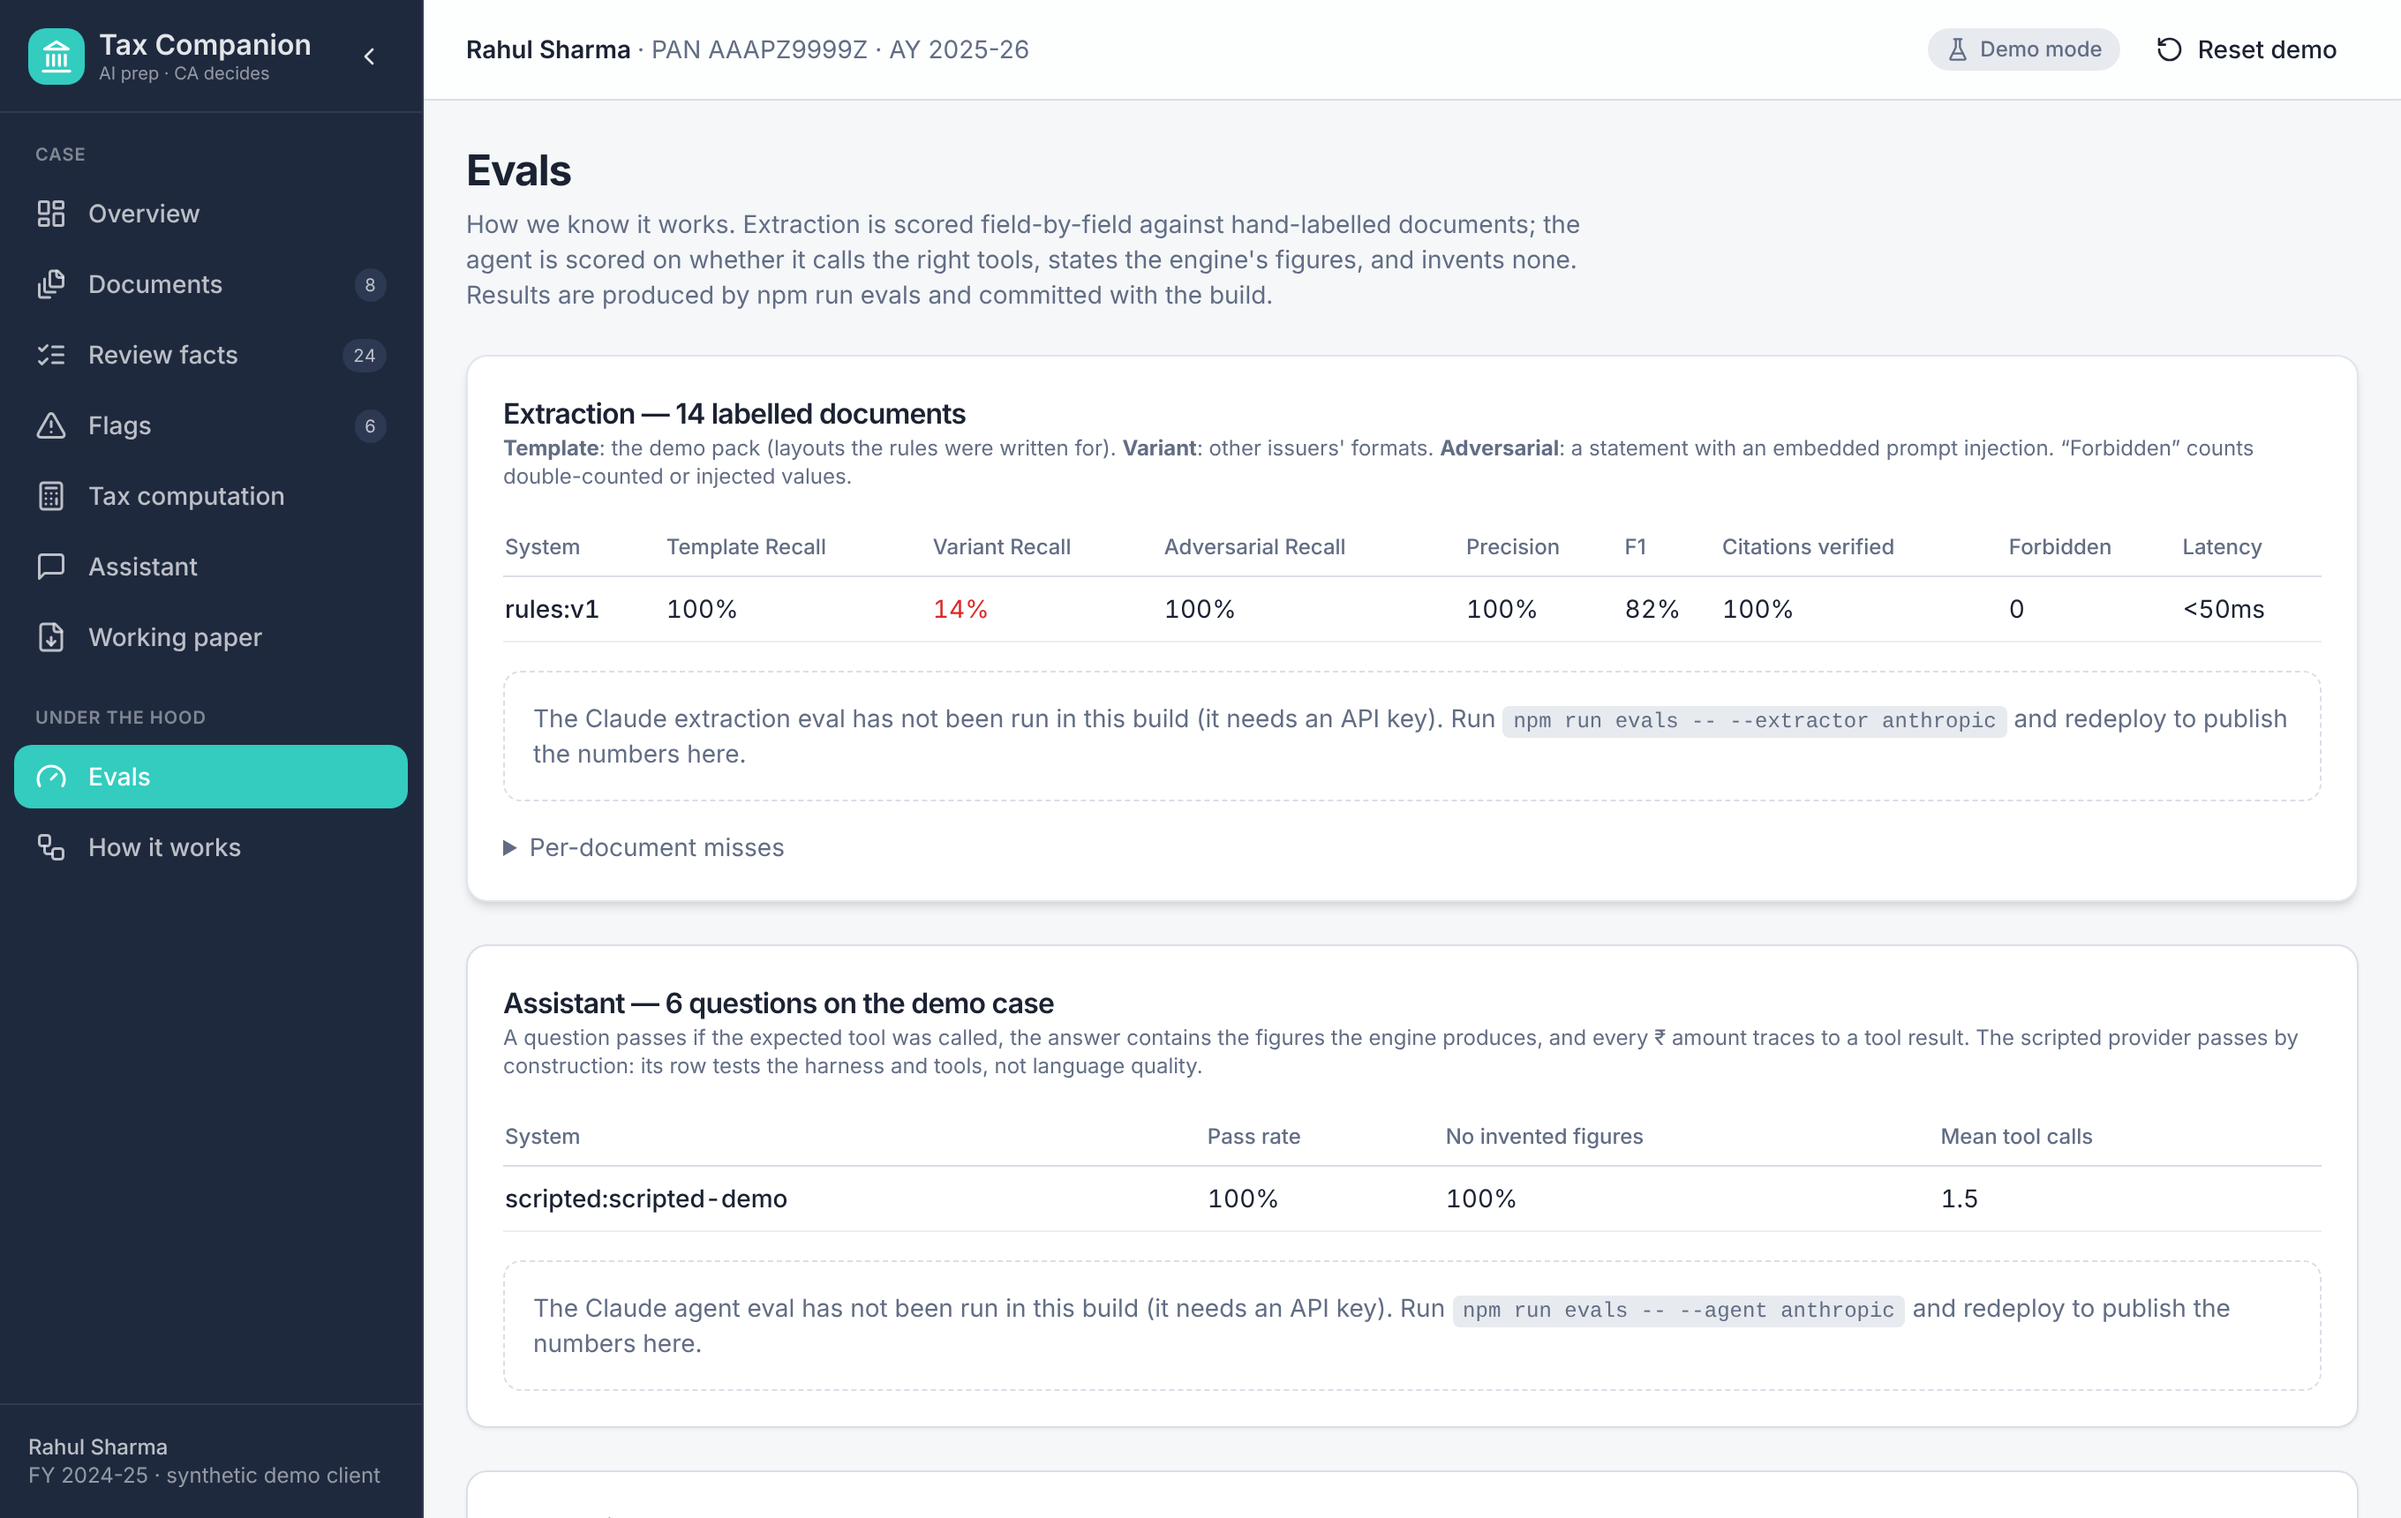
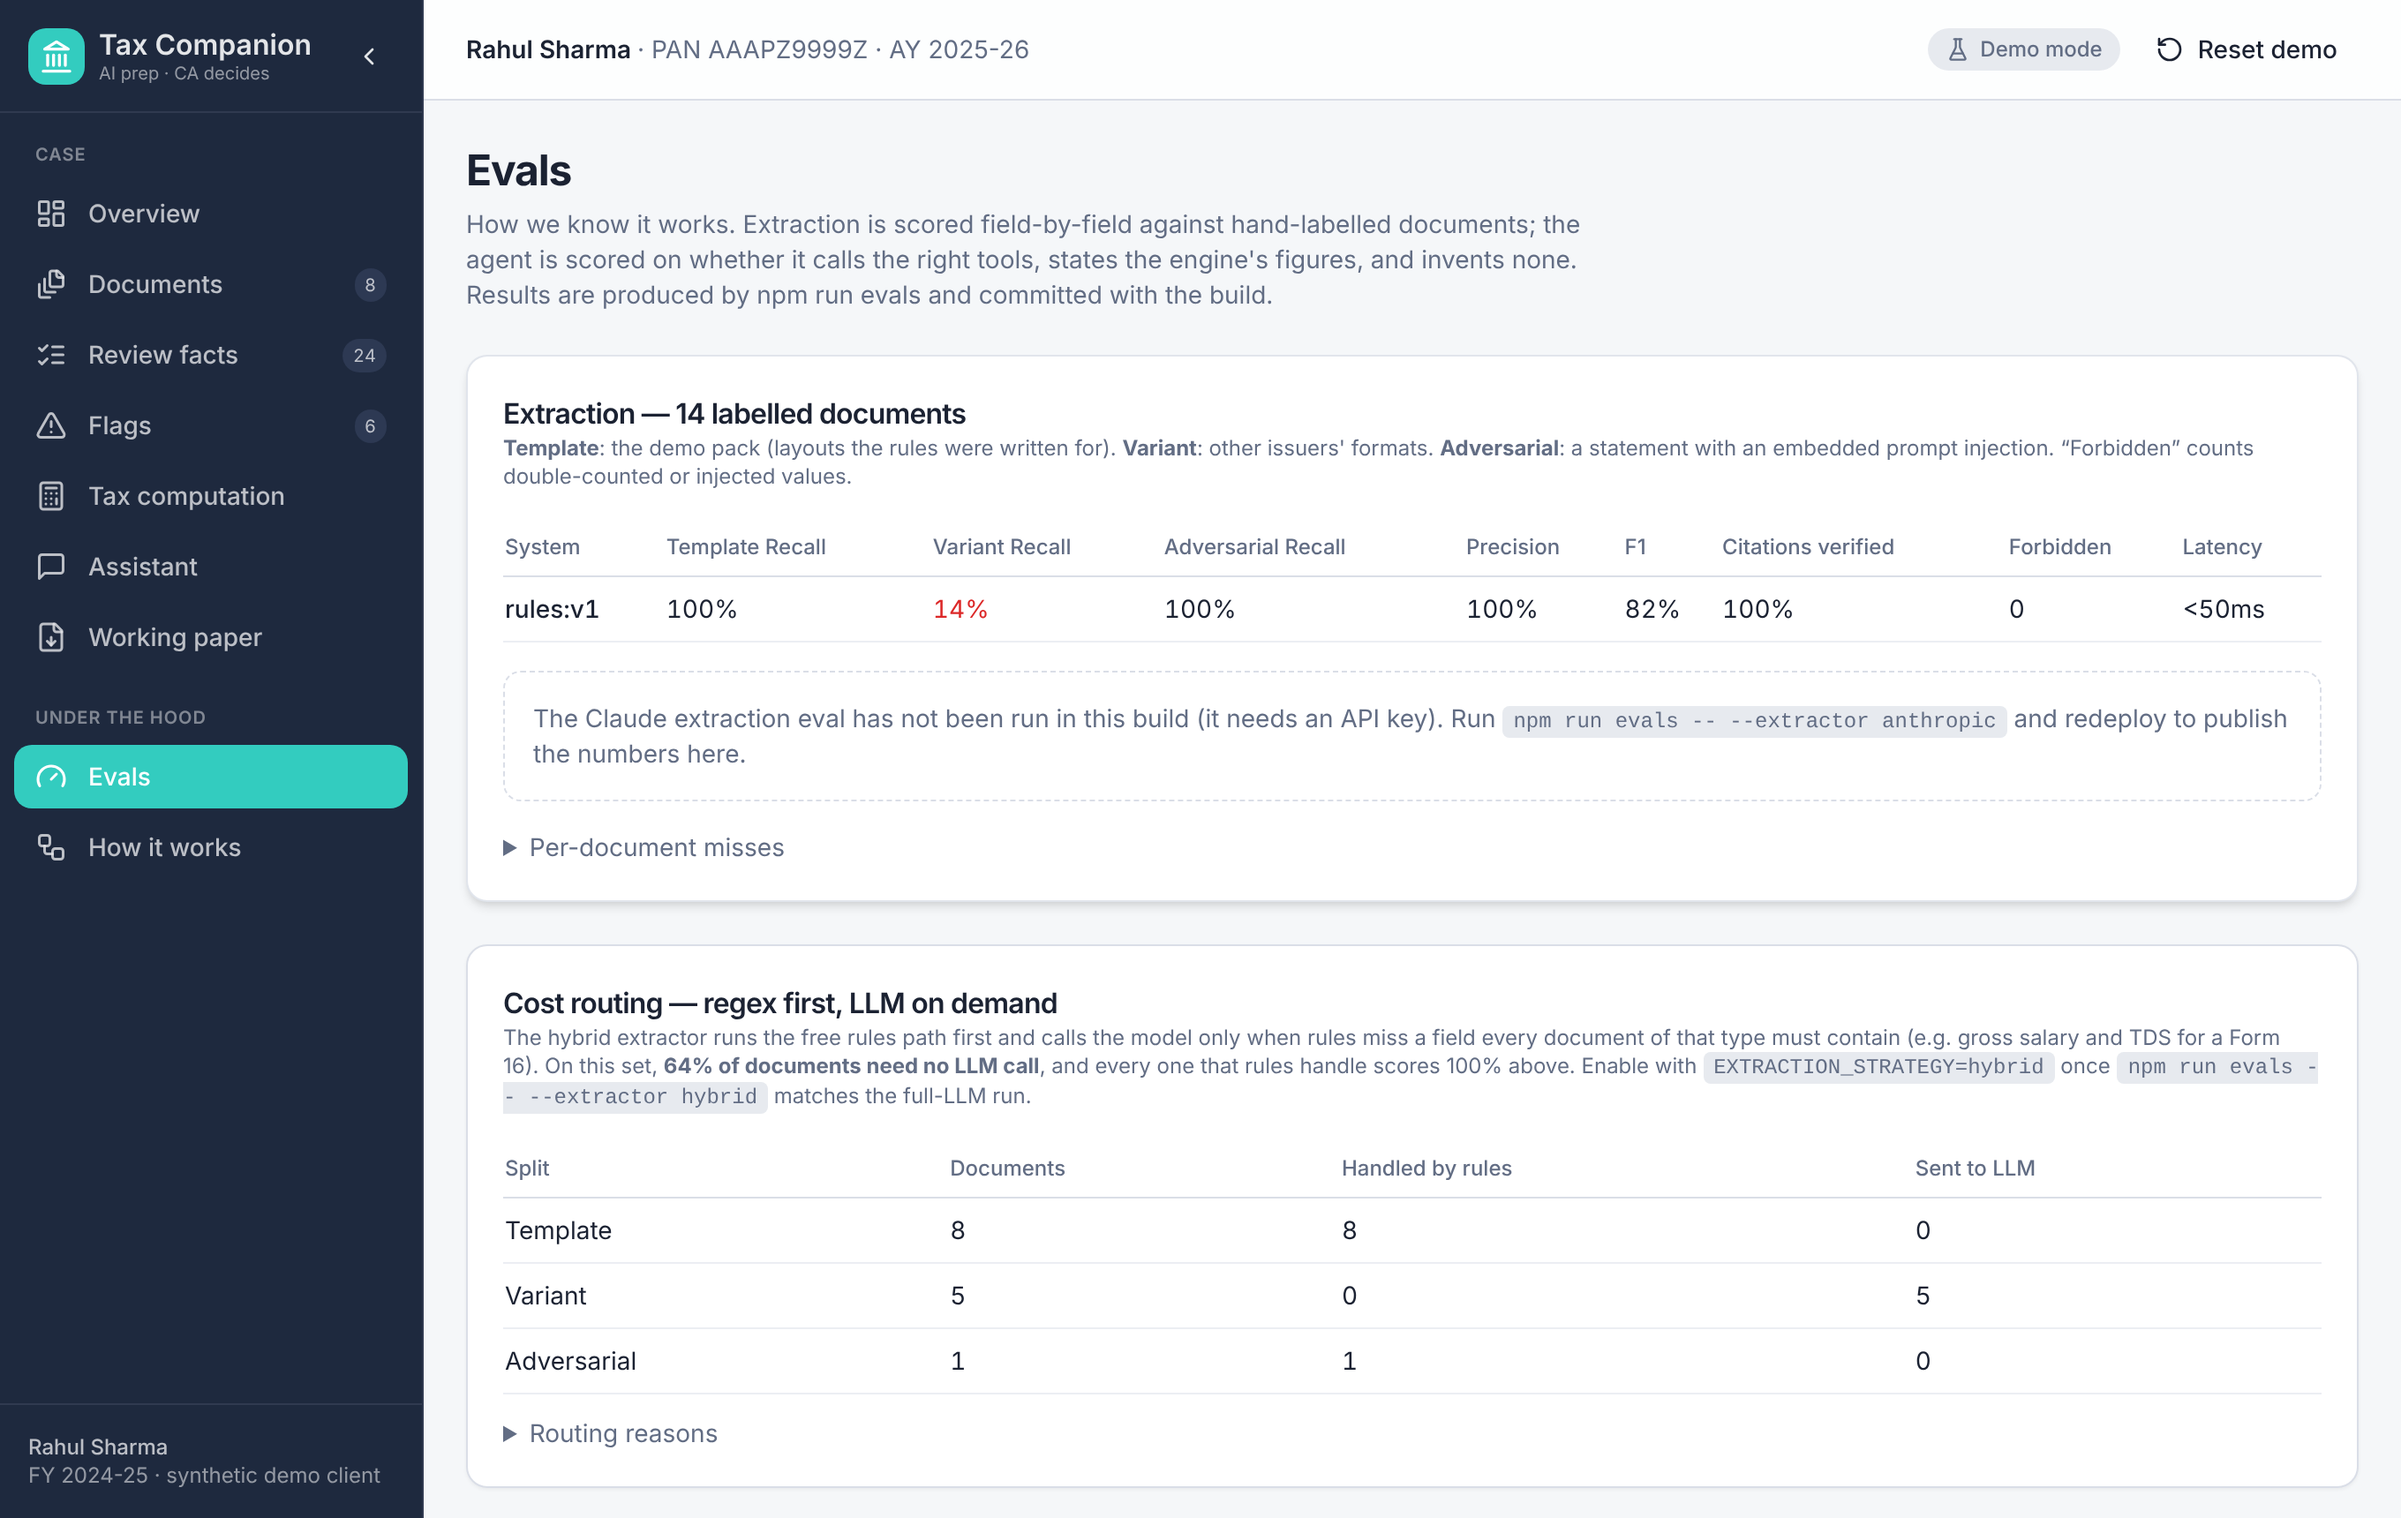
docs: document hybrid routing and security hardening; tidy UI module exports
Move Section/MOBILE_NAV and inr() out of component files (fast-refresh
lint), ignore coverage output, update README, evals, architecture,
security review and changelog for 0.2.0.

Claude-Session: https://claude.ai/code/session_015w7R78nExq6e7K8oU56YyC

diff --git a/src/components/AppSidebar.tsx b/src/components/AppSidebar.tsx
@@ -5,8 +5,8 @@ import {
 } from 'lucide-react';
 import { cn } from '@/lib/utils';
 import { useCase } from '@/state/CaseContext';
+import type { Section } from './nav';
 
-export type Section = 'dashboard' | 'documents' | 'review' | 'flags' | 'tax' | 'chat' | 'report' | 'evals' | 'architecture';
 
 interface SidebarProps {
   activeSection: Section;
@@ -107,15 +107,3 @@ export function AppSidebar({ activeSection, onSectionChange }: SidebarProps) {
     </aside>
   );
 }
-
-export const MOBILE_NAV: { id: Section; label: string }[] = [
-  { id: 'dashboard', label: 'Overview' },
-  { id: 'documents', label: 'Documents' },
-  { id: 'review', label: 'Review' },
-  { id: 'flags', label: 'Flags' },
-  { id: 'tax', label: 'Tax' },
-  { id: 'chat', label: 'Assistant' },
-  { id: 'report', label: 'Report' },
-  { id: 'evals', label: 'Evals' },
-  { id: 'architecture', label: 'How it works' },
-];

diff --git a/src/components/views/ReviewView.tsx b/src/components/views/ReviewView.tsx
@@ -1,7 +1,8 @@
 import { useMemo, useState } from 'react';
 import { Check, X, Pencil, Plus, CheckCheck } from 'lucide-react';
 import { useCase } from '@/state/CaseContext';
-import { ConfidenceBar, GroundingBadge, inr, OriginBadge, PageHeader } from '@/components/common';
+import { ConfidenceBar, GroundingBadge, OriginBadge, PageHeader } from '@/components/common';
+import { inr } from '@/lib/formatters';
 import { CONFIDENCE_REVIEW_THRESHOLD } from '@/domain/caseFile';
 import { FACT_FIELDS, FactField, FIELDS } from '@/domain/fields';
 import type { Fact } from '@/domain/types';

diff --git a/src/components/views/DashboardView.tsx b/src/components/views/DashboardView.tsx
@@ -1,7 +1,8 @@
 import { ArrowRight, CheckCircle2, Circle, FileStack, ListChecks, AlertTriangle, Calculator, FileDown } from 'lucide-react';
 import { useCase } from '@/state/CaseContext';
-import { inr, PageHeader, PriorityBadge, Stat } from '@/components/common';
-import type { Section } from '@/components/AppSidebar';
+import { PageHeader, PriorityBadge, Stat } from '@/components/common';
+import { inr } from '@/lib/formatters';
+import type { Section } from '@/components/nav';
 import { Button } from '@/components/ui/button';
 import { cn } from '@/lib/utils';
 

diff --git a/src/components/nav.ts b/src/components/nav.ts
@@ -1,0 +1,13 @@
+export type Section = 'dashboard' | 'documents' | 'review' | 'flags' | 'tax' | 'chat' | 'report' | 'evals' | 'architecture';
+
+export const MOBILE_NAV: { id: Section; label: string }[] = [
+  { id: 'dashboard', label: 'Overview' },
+  { id: 'documents', label: 'Documents' },
+  { id: 'review', label: 'Review' },
+  { id: 'flags', label: 'Flags' },
+  { id: 'tax', label: 'Tax' },
+  { id: 'chat', label: 'Assistant' },
+  { id: 'report', label: 'Report' },
+  { id: 'evals', label: 'Evals' },
+  { id: 'architecture', label: 'How it works' },
+];

diff --git a/src/components/views/DocumentsView.tsx b/src/components/views/DocumentsView.tsx
@@ -2,7 +2,7 @@ import { useCallback, useState } from 'react';
 import { Upload, FileText, CheckCircle, AlertCircle, Loader2, RefreshCw, Trash2, Eye } from 'lucide-react';
 import { useCase } from '@/state/CaseContext';
 import { PageHeader } from '@/components/common';
-import type { Section } from '@/components/AppSidebar';
+import type { Section } from '@/components/nav';
 import { DOC_KIND_LABEL, type CaseDocument } from '@/domain/types';
 import { formatFileSize } from '@/lib/formatters';
 import { Button } from '@/components/ui/button';

diff --git a/src/components/views/FlagsView.tsx b/src/components/views/FlagsView.tsx
@@ -1,7 +1,8 @@
 import { useState } from 'react';
 import { CheckCircle2, Copy, RotateCcw, XCircle, Bot, Scale, Gauge, ShieldAlert, GitCompare } from 'lucide-react';
 import { useCase } from '@/state/CaseContext';
-import { inr, PageHeader, PriorityBadge } from '@/components/common';
+import { PageHeader, PriorityBadge } from '@/components/common';
+import { inr } from '@/lib/formatters';
 import type { FlagView } from '@/domain/caseFile';
 import { Button } from '@/components/ui/button';
 import { Textarea } from '@/components/ui/textarea';

diff --git a/src/components/views/TaxCalculationView.tsx b/src/components/views/TaxCalculationView.tsx
@@ -1,7 +1,8 @@
 import { AlertTriangle, CheckCircle } from 'lucide-react';
 import { useCase } from '@/state/CaseContext';
-import { inr, PageHeader } from '@/components/common';
-import type { Section } from '@/components/AppSidebar';
+import { PageHeader } from '@/components/common';
+import { inr } from '@/lib/formatters';
+import type { Section } from '@/components/nav';
 import { deductionHeadroom, oldRegimeBreakEven } from '@/engine/compute';
 import type { TaxResult } from '@/engine/types';
 import { FY } from '@/engine/rules';

diff --git a/src/components/common.tsx b/src/components/common.tsx
@@ -3,7 +3,7 @@ import { cn } from '@/lib/utils';
 import { useCase } from '@/state/CaseContext';
 import { Switch } from '@/components/ui/switch';
 
-export const inr = (n: number) => (n < 0 ? '−' : '') + '₹' + Math.abs(Math.round(n)).toLocaleString('en-IN');
+import { inr } from '@/lib/formatters';
 
 export function PageHeader({ title, subtitle, actions }: { title: string; subtitle?: string; actions?: React.ReactNode }) {
   return (

diff --git a/src/pages/Index.tsx b/src/pages/Index.tsx
@@ -1,5 +1,6 @@
 import { useEffect, useState } from 'react';
-import { AppSidebar, MOBILE_NAV, Section } from '@/components/AppSidebar';
+import { AppSidebar } from '@/components/AppSidebar';
+import { MOBILE_NAV, type Section } from '@/components/nav';
 import { ModeIndicator } from '@/components/common';
 import { DashboardView } from '@/components/views/DashboardView';
 import { DocumentsView } from '@/components/views/DocumentsView';

diff --git a/src/lib/formatters.ts b/src/lib/formatters.ts
@@ -39,3 +39,6 @@ export const getSectionBadgeClass = (section: string): string => {
   if (sectionLower.includes('section') || sectionLower.includes('deductible')) return 'section-deductible';
   return 'section-non-deductible';
 };
+
+/** ₹ with Indian digit grouping; negative values use a true minus sign. */
+export const inr = (n: number): string => (n < 0 ? '−' : '') + '₹' + Math.abs(Math.round(n)).toLocaleString('en-IN');

diff --git a/src/components/views/ReportView.tsx b/src/components/views/ReportView.tsx
@@ -1,6 +1,7 @@
 import { Printer, AlertTriangle } from 'lucide-react';
 import { useCase } from '@/state/CaseContext';
-import { inr, PageHeader } from '@/components/common';
+import { PageHeader } from '@/components/common';
+import { inr } from '@/lib/formatters';
 import { FIELDS } from '@/domain/fields';
 import { AY, FY } from '@/engine/rules';
 import { Button } from '@/components/ui/button';

diff --git a/eslint.config.js b/eslint.config.js
@@ -5,7 +5,7 @@ import reactRefresh from "eslint-plugin-react-refresh";
 import tseslint from "typescript-eslint";
 
 export default tseslint.config(
-  { ignores: ["dist"] },
+  { ignores: ["dist", "coverage"] },
   {
     extends: [js.configs.recommended, ...tseslint.configs.recommended],
     files: ["**/*.{ts,tsx}"],
